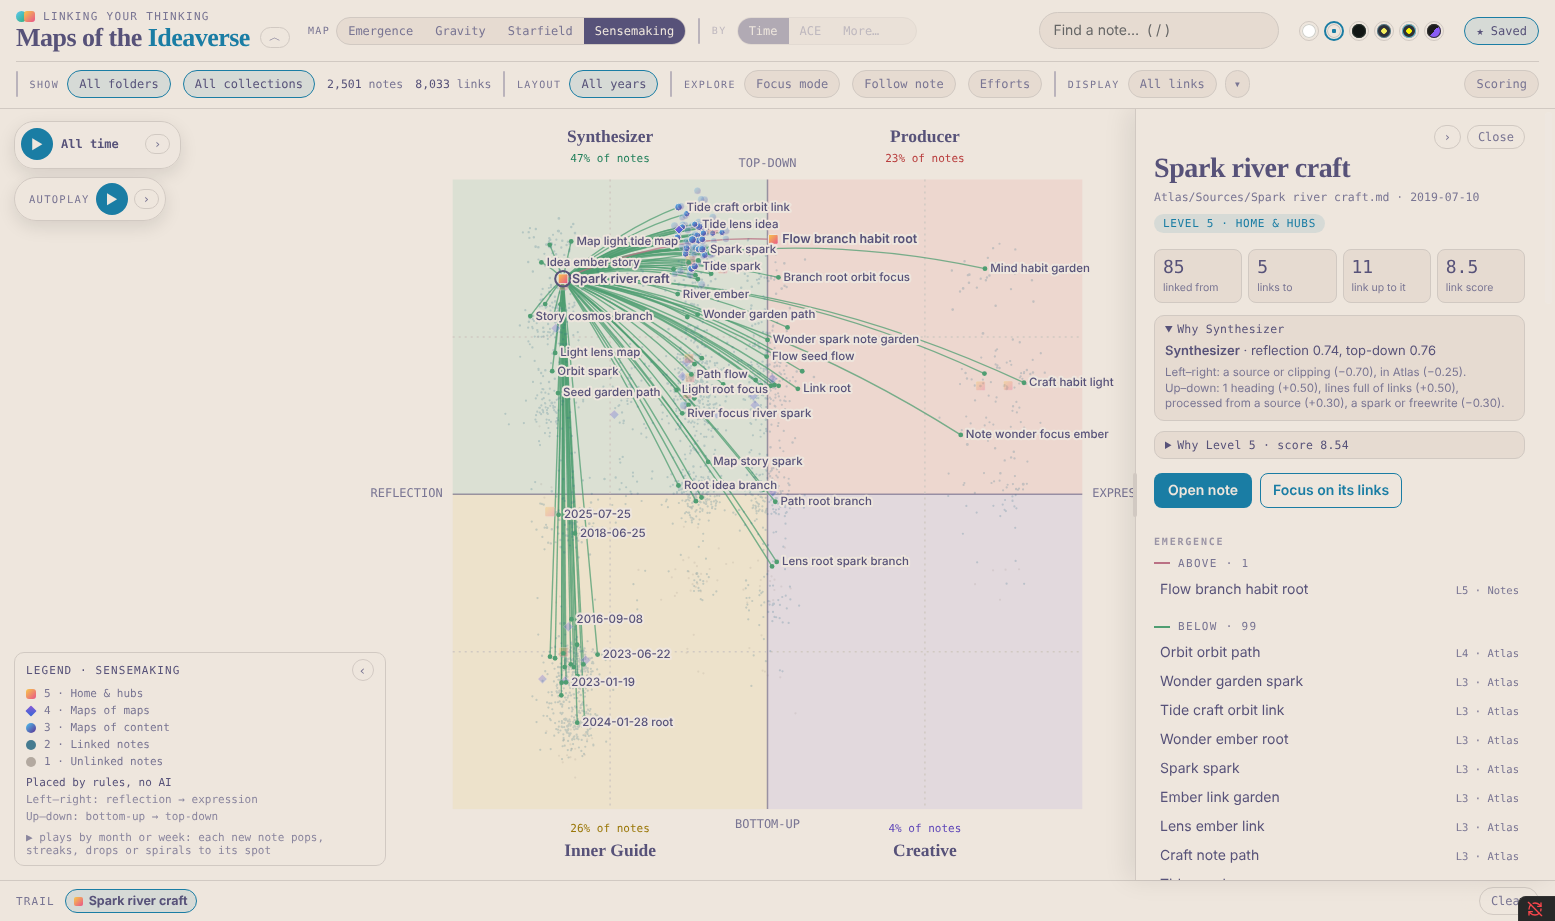
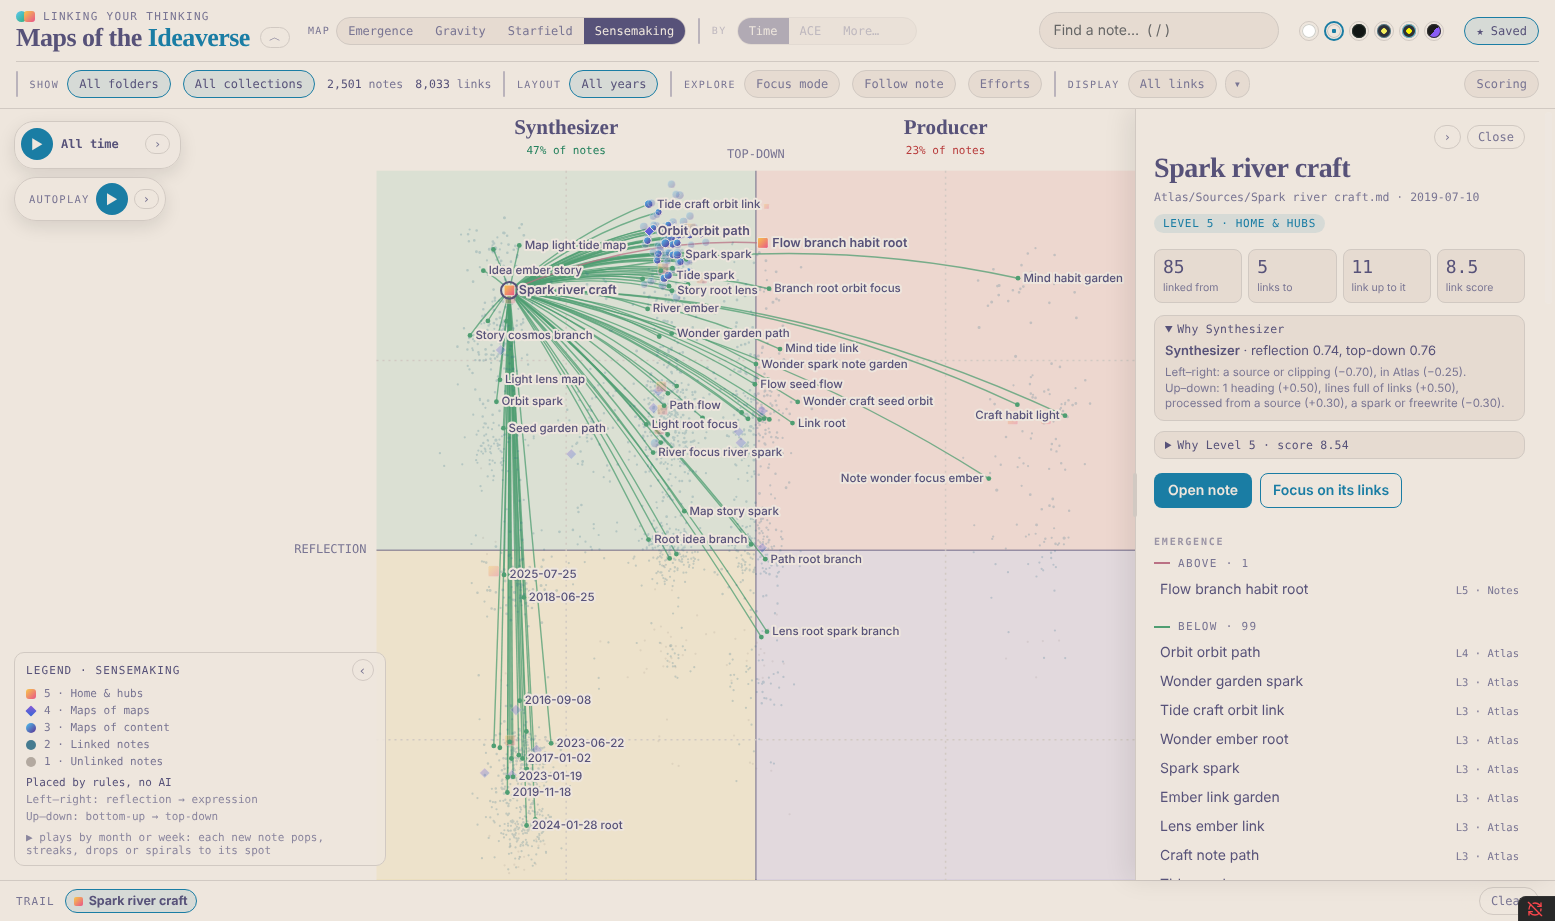
README: retake screenshots (fuller links, Gravity by ACE, Starfield zoomed with panels tucked, LYT time-lapse, Focus mode) and add the Sensemaking swirl animation
Claude-Session: https://claude.ai/code/session_01QcxmUUuEka7RWjNHxnTd7Y

diff --git a/test/scenarios/readme-shots.js b/test/scenarios/readme-shots.js
@@ -1,38 +1,44 @@
 // Screenshots for the README (made-up vault). Writes to $SHOTS as readme-*.png
-module.exports = async ({ page, sleep, shot }) => {
+const path = require('path');
+module.exports = async ({ page, sleep }) => {
   await page.evaluate(() => require('@electron/remote').getCurrentWindow().setSize(1600, 1000)); await sleep(800);
   await page.evaluate(() => app.commands.executeCommandById('ideaverse-maps:open'));
   await page.waitForSelector('.ivm canvas', { timeout: 120000 }); await sleep(2000);
   const q = s => page.locator('.ivm ' + s).first();
   const V = 'app.workspace.getLeavesOfType("ideaverse-maps")[0].view.debug';
-  const labels = () => page.evaluate(new Function('return ' + V + '.__ivLHall()'));
+  const run = js => page.evaluate(new Function(js));
   const theme = async t => { await q(`#themeseg button[data-th="${t}"]`).click(); await sleep(700); };
   const map = async v => { await q(`#vseg button[data-v="${v}"]`).click(); await sleep(2200); };
-  const pick = async k => { const lh = await labels(); const t = lh[k] || lh[0]; await page.mouse.click(t[0] + 5, t[1] + 6); await sleep(1600); return t[4]; };
-  const clear = async () => { await page.keyboard.press('Escape'); await sleep(300); const x = q('aside .x'); if (await x.isVisible().catch(() => false)) await x.click(); await sleep(500); };
-  const snap = async name => { await page.mouse.move(1, 500); await sleep(500); await page.locator('.ivm').screenshot({ path: require('path').join(process.env.SHOTS, name + '.png') }); console.log('snap', name); };
-  const bars = async collapsed => { for (const s of ['#timebar', '#playbar']) { const on = await page.evaluate(s => document.querySelector('.ivm ' + s).classList.contains('collapsed'), s); if (on !== collapsed) await q(s + ' ' + (s === '#timebar' ? '.tcol' : '.pcol')).click(); } await sleep(400); };
-  const panel = async collapsed => { await page.evaluate(c => { const d = document.querySelector('.ivm aside'), tab = document.querySelector('.ivm .dtab'); if (c && d && !d.hidden) d.querySelector('.dcol, [data-col], button[aria-label*="ollapse"]')?.click(); if (!c && tab && !tab.hidden) tab.click(); }, collapsed); await sleep(900); };
-  // 1 Emergence, LYT Mode, a hub picked, panel tucked away
-  await bars(true); await theme('lyt'); console.log('picked', await pick(1)); await panel(true); await snap('readme-emergence'); await panel(false);
-  // 2 Gravity, Paper
-  await clear(); await theme('paper'); await map('gravity'); await pick(0); await page.evaluate(() => document.querySelector('.ivm #legend').click()); await snap('readme-gravity'); await page.evaluate(() => document.querySelector('.ivm #legtab').click());
-  // 3 Starfield 3D, Dark
-  await clear(); await theme('dark'); await map('stars');
-  await page.evaluate(() => document.querySelector('.ivm input[name="s3d"][value="3d"]').click()); await sleep(3000); await page.evaluate(() => document.body.click()); await snap('readme-starfield');
-  // 4 Sensemaking, Soft Paper
+  const axis = async x => { await q(`#xseg button[data-x="${x}"]`).click(); await sleep(1500); };
+  const find = async title => { await q('#q').click(); await q('#q').fill(title); await sleep(400); await page.keyboard.press('Enter'); await sleep(1800); await q('#q').fill(''); await page.evaluate(() => document.activeElement.blur()); await sleep(300); };
+  const clear = async () => { const x = q('aside #dx'); if (await x.isVisible().catch(() => false)) await x.click(); await sleep(600); };
+  const tuck = async () => { const b = q('aside #dcol'); if (await b.isVisible().catch(() => false)) await b.click(); await sleep(900); };
+  const untuck = async () => { const t = q('.dtab'); if (await t.isVisible().catch(() => false)) await t.click(); await sleep(600); };
+  const bars = async collapsed => { for (const [s, c] of [['#timebar', '.tcol'], ['#playbar', '.pcol']]) { const on = await page.evaluate(s => document.querySelector('.ivm ' + s).classList.contains('collapsed'), s); if (on !== collapsed) await q(s + ' ' + c).click(); } await sleep(400); };
+  const legend = async open => { const o = await page.evaluate(() => !document.querySelector('.ivm #legend').classList.contains('collapsed')); if (o !== open) await page.evaluate(o => o ? document.querySelector('.ivm #legend').click() : document.querySelector('.ivm #legtab').click(), o); await sleep(400); };
+  const header = async hidden => { const h = await page.evaluate(() => document.querySelector('.ivm header').hidden); if (h !== hidden) { if (hidden) await q('.hcol').click(); else await q('.htab').click(); } await sleep(900); };
+  const trailClear = async () => { await page.evaluate(() => { const b = [...document.querySelectorAll('.ivm .trail button')].find(b => /clear/i.test(b.textContent)); if (b) b.click(); }); await sleep(300); };
+  const snap = async name => { await page.mouse.move(1, 500); await sleep(500); await page.locator('.ivm').screenshot({ path: path.join(process.env.SHOTS, name + '.png') }); console.log('snap', name); };
+
+  // 1 Emergence by Time, LYT Mode: a map with links above and below and an uplink; panel tucked away
+  await bars(true); await theme('lyt'); await find('Story cosmos garden'); await tuck(); await q('#zfit').click(); await sleep(1500); await snap('readme-emergence'); await untuck(); await clear();
+  // 2 Gravity by ACE, Play theme: a Level 3 map
+  await theme('paper'); await map('gravity'); await axis('ace'); await find('Seed orbit idea'); await tuck(); await legend(false); await snap('readme-gravity'); await legend(true); await untuck(); await clear(); await axis('time');
+  // 3 Starfield 3D, Dark: everything tucked away, zoomed in
+  await theme('dark'); await map('stars'); await trailClear();
+  await page.evaluate(() => document.querySelector('.ivm input[name="s3d"][value="3d"]').click()); await sleep(3000); await page.evaluate(() => document.body.click());
+  await legend(false); await header(true); await sleep(800);
+  const box = await q('canvas').boundingBox(); await page.mouse.move(box.x + box.width * .55, box.y + box.height * .5);
+  for (let i = 0; i < 4; i++) { await page.mouse.wheel(0, -120); await sleep(250); } await sleep(1500);
+  await snap('readme-starfield'); await header(false); await legend(true);
   await page.evaluate(() => document.querySelector('.ivm input[name="s3d"][value="2d"]').click()); await sleep(800);
-  await theme('softpaper'); await map('sense'); await pick(2); await snap('readme-sensemaking');
-  // 5 time-lapse mid-play, Gravity, Cybertron
-  await clear(); await theme('cybertron'); await map('gravity'); await bars(false);
-  await page.evaluate(new Function(V + '.__ivSense.set(Math.round(' + V + '.__ivSense.steps() * .7))')); await sleep(800);
-  await q('#tlplay').click(); await sleep(2600); await page.locator('.ivm').screenshot({ path: require('path').join(process.env.SHOTS, 'readme-timelapse.png') }); console.log('snap readme-timelapse');
-  await q('#tlplay').click(); await page.evaluate(new Function(V + '.__ivSense.set(' + V + '.__ivSense.steps() - 1)')); await sleep(800); await bars(true); await map('emergence');
-  // 6 Follow note: map beside the editor, Dark
-  await theme('dark'); await q('#follownote').click(); await sleep(300);
-  await pick(3); await sleep(1200);
-  await page.evaluate(() => { const m = app.workspace.getLeavesOfType('ideaverse-maps')[0], e = app.workspace.getLeavesOfType('markdown')[0]; m.parent.setDimension(64); e.parent.setDimension(36); }); await sleep(1500);
-  await pick(3); await sleep(1500);
-  await page.mouse.move(1, 500); await sleep(400);
-  await page.screenshot({ path: require('path').join(process.env.SHOTS, 'readme-follow.png') }); console.log('snap readme-follow');
+  // 4 Sensemaking, Soft Paper: a note's reasons in the panel
+  await theme('softpaper'); await map('sense'); await find('Spark river craft'); await snap('readme-sensemaking'); await clear(); await trailClear();
+  // (the Sensemaking swirl is an animation: see readme-swirl-gif.js)
+  // 6 Gravity time-lapse, LYT Mode
+  await theme('lyt'); await map('gravity'); await run(V + '.__ivSense.set(Math.round(' + V + '.__ivSense.steps() * .7))'); await sleep(800);
+  await q('#tlplay').click(); await sleep(2600); await page.locator('.ivm').screenshot({ path: path.join(process.env.SHOTS, 'readme-timelapse.png') }); console.log('snap readme-timelapse');
+  await q('#tlplay').click(); await run(V + '.__ivSense.set(' + V + '.__ivSense.steps() - 1)'); await sleep(800); await bars(true);
+  // 7 Focus mode on Emergence, Dark, panel tucked (for "Using it")
+  await theme('dark'); await map('emergence'); await q('#focusmode').click(); await find('Wonder ember root'); await tuck(); await sleep(800); await snap('readme-focus');
 };

diff --git a/test/scenarios/readme-swirl-gif.js b/test/scenarios/readme-swirl-gif.js
@@ -1,0 +1,21 @@
+// Frames for the README's Sensemaking swirl animation: writes $SHOTS/f000.jpg… (whole window, ~17 fps). Build the GIF with test/make-gif.py.
+module.exports = async ({ page, sleep }) => {
+  await page.evaluate(() => require('@electron/remote').getCurrentWindow().setSize(1600, 1000)); await sleep(800);
+  await page.evaluate(() => app.commands.executeCommandById('ideaverse-maps:open'));
+  await page.waitForSelector('.ivm canvas', { timeout: 120000 }); await sleep(2000);
+  const q = s => page.locator('.ivm ' + s).first();
+  const V = 'app.workspace.getLeavesOfType("ideaverse-maps")[0].view.debug';
+  const run = js => page.evaluate(new Function(js));
+  await q('#themeseg button[data-th="' + (process.env.TH || 'dark') + '"]').click(); await sleep(500);
+  await q('#vseg button[data-v="sense"]').click(); await sleep(2500);
+  await q('#tlfx button[data-f="swirl"]').click(); await q('#tlspeed button[data-p="' + (process.env.SP || 'normal') + '"]').click(); await q('#tlstep button[data-s="week"]').click();
+  await run(V + '.__ivSense.set(Math.round(' + V + '.__ivSense.steps() * .78))'); await sleep(1000);
+  await page.evaluate(() => document.querySelector('.ivm #legend').click()); await sleep(300);
+  await q('#tlplay').click(); await sleep(300);
+  const cdp = await page.context().newCDPSession(page); const fs = require('fs'); let i = 0; const t0 = Date.now();
+  cdp.on('Page.screencastFrame', async f => { fs.writeFileSync(`${process.env.SHOTS}/f${String(i++).padStart(3, '0')}.jpg`, Buffer.from(f.data, 'base64')); try { await cdp.send('Page.screencastFrameAck', { sessionId: f.sessionId }); } catch (e) {} });
+  await cdp.send('Page.startScreencast', { format: 'jpeg', quality: 90, everyNthFrame: 1 });
+  await sleep(+(process.env.DUR || 7000)); await cdp.send('Page.stopScreencast');
+  console.log('frames', i, 'ms', Date.now() - t0);
+  await q('#tlplay').click();
+};

diff --git a/test/make-gif.py b/test/make-gif.py
@@ -1,0 +1,8 @@
+# Turn screencast frames into the README's swirl GIF: python3 test/make-gif.py <frames dir> <out.gif>
+import sys, glob
+from PIL import Image
+fs = sorted(glob.glob(sys.argv[1] + "/f*.jpg"))
+fr = [Image.open(f).convert("RGB").crop((600, 215, 1440, 965)).resize((672, 600), Image.LANCZOS) for f in fs]
+pal = fr[len(fr) // 2].quantize(colors=128, method=Image.Quantize.MEDIANCUT)
+q = [f.quantize(palette=pal, dither=Image.Dither.NONE) for f in fr]
+q[0].save(sys.argv[2], save_all=True, append_images=q[1:], duration=58, loop=0, optimize=True)

diff --git a/README.md b/README.md
@@ -6,8 +6,8 @@ See your notes as maps. Every note in your vault gets a place on four maps. Thre
 
 Made by [Nick Milo](https://www.linkingyourthinking.com) of Linking Your Thinking, for anyone with an Obsidian vault (an "ideaverse").
 
-![Emergence: one hub's links fanning out across ten years of notes](docs/emergence.png)
-<sub>Emergence in the LYT Mode theme: a Level 5 hub's links fan out across ten years. All screenshots use a made-up vault of 2,500 notes.</sub>
+![Emergence: a map of content with links above and below](docs/emergence.png)
+<sub>Emergence in the LYT Mode theme: a map of content with links above it (pink, up to its maps and hubs) and below it (green, the notes it gathers). All screenshots use a made-up vault of 2,500 notes.</sub>
 
 ## The maps
 
@@ -19,15 +19,15 @@ Five bands, one per Idea Emergence level. Left to right is time (when each note 
 
 The same levels as rings: home notes and hubs at the center, unlinked notes on the rim. Time or folders go around the clock.
 
-![Gravity: levels as rings, years around the clock](docs/gravity.png)
-<sub>Gravity in the Play theme, with a hub's links and the note panel open.</sub>
+![Gravity by ACE: levels as rings, folders around the clock](docs/gravity.png)
+<sub>Gravity by ACE folders in the Play theme: a Level 3 map and its links, from the hubs at the center to notes out on the rim.</sub>
 
 ### Starfield
 
 Your biggest hubs become galaxy cores. Every note joins the hub it reaches in the fewest links; maps sit in the bulge, linked notes trail out along the arms, and unlinked notes drift in nebulae, one per folder. Switch to 3D to orbit it, or turn on Drift for a slow screensaver.
 
 ![Starfield in 3D: galaxies of notes around their hubs](docs/starfield.png)
-<sub>Starfield in 3D, Dark theme. Each galaxy is a hub and the notes that reach it first.</sub>
+<sub>Starfield in 3D, Dark theme, panels tucked away. Each galaxy is a hub and the notes that reach it first.</sub>
 
 ### Sensemaking
 
@@ -36,12 +36,15 @@ A 2×2 of four ways of working with notes: Synthesizer (reflection, top-down), P
 ![Sensemaking: the four quadrants, with a note's reasons in the panel](docs/sensemaking.png)
 <sub>Sensemaking in the Soft Paper theme. The panel shows why this note is a Synthesizer.</sub>
 
+![Sensemaking time-lapse: new notes swirl out to their places](docs/swirl.gif)
+<sub>The time-lapse on Sensemaking with Swirl out: each week's new notes spiral out to where they belong.</sub>
+
 ## The time-lapse
 
 Press ▶ on the timeline to replay your vault by month or by week. New notes arrive (popcorn, comets, rain, or a swirl), and notes move up a level as their links arrive. Click a note at any point to pause and look around; Resume carries on.
 
 ![The time-lapse playing on Gravity, November 2023](docs/timelapse.png)
-<sub>The time-lapse mid-play on Gravity, Cybertron theme: November 2023's new notes burst in around the clock.</sub>
+<sub>The time-lapse mid-play on Gravity, LYT Mode theme: November 2023's new notes burst in around the clock.</sub>
 
 ## How notes get their level
 
@@ -66,8 +69,8 @@ The score counts links in, links out, links both ways, and uplinks (the `up` and
 - When notes change, the map offers a rescan.
 - Six themes: Play, Soft Paper, Dark, LYT Mode, Cybertron, or match your own Obsidian theme (the last swatch), which follows it as you switch.
 
-![Follow note: the map beside the editor, each following the other](docs/follow.png)
-<sub>Follow note: pick a note on the map and it opens in the editor beside it; switch notes in the editor and the map follows.</sub>
+![Focus mode: one note and everything it links to](docs/focus.png)
+<sub>Focus mode on Emergence, Dark theme: one map and the 42 notes it links to, with the links among them drawn faintly.</sub>
 
 ## Settings
 
